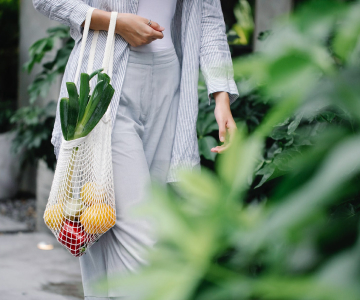
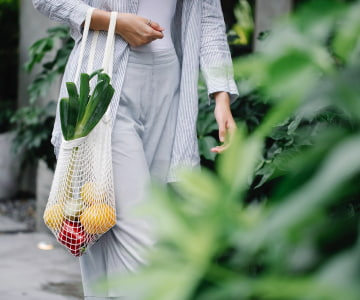
jpeg optimisation

Changed region(s): [[0.1222, 0.6, 0.3361, 0.84]]

diff --git a/css/styles.css b/css/styles.css
@@ -157,7 +157,7 @@ h2 {
     font-style: normal;
     font-weight: 400;
     font-size: 16px;
-    line-height: 1.5x;
+    line-height: 1.5;
 }
 
 .phone:hover,
@@ -206,13 +206,6 @@ h2 {
     line-height: 1.5;
     letter-spacing: 0.02em;
 }
-
-
-
-
-
-
-
 .footer {
     width: 1440px;
     /* height: 310px; */
